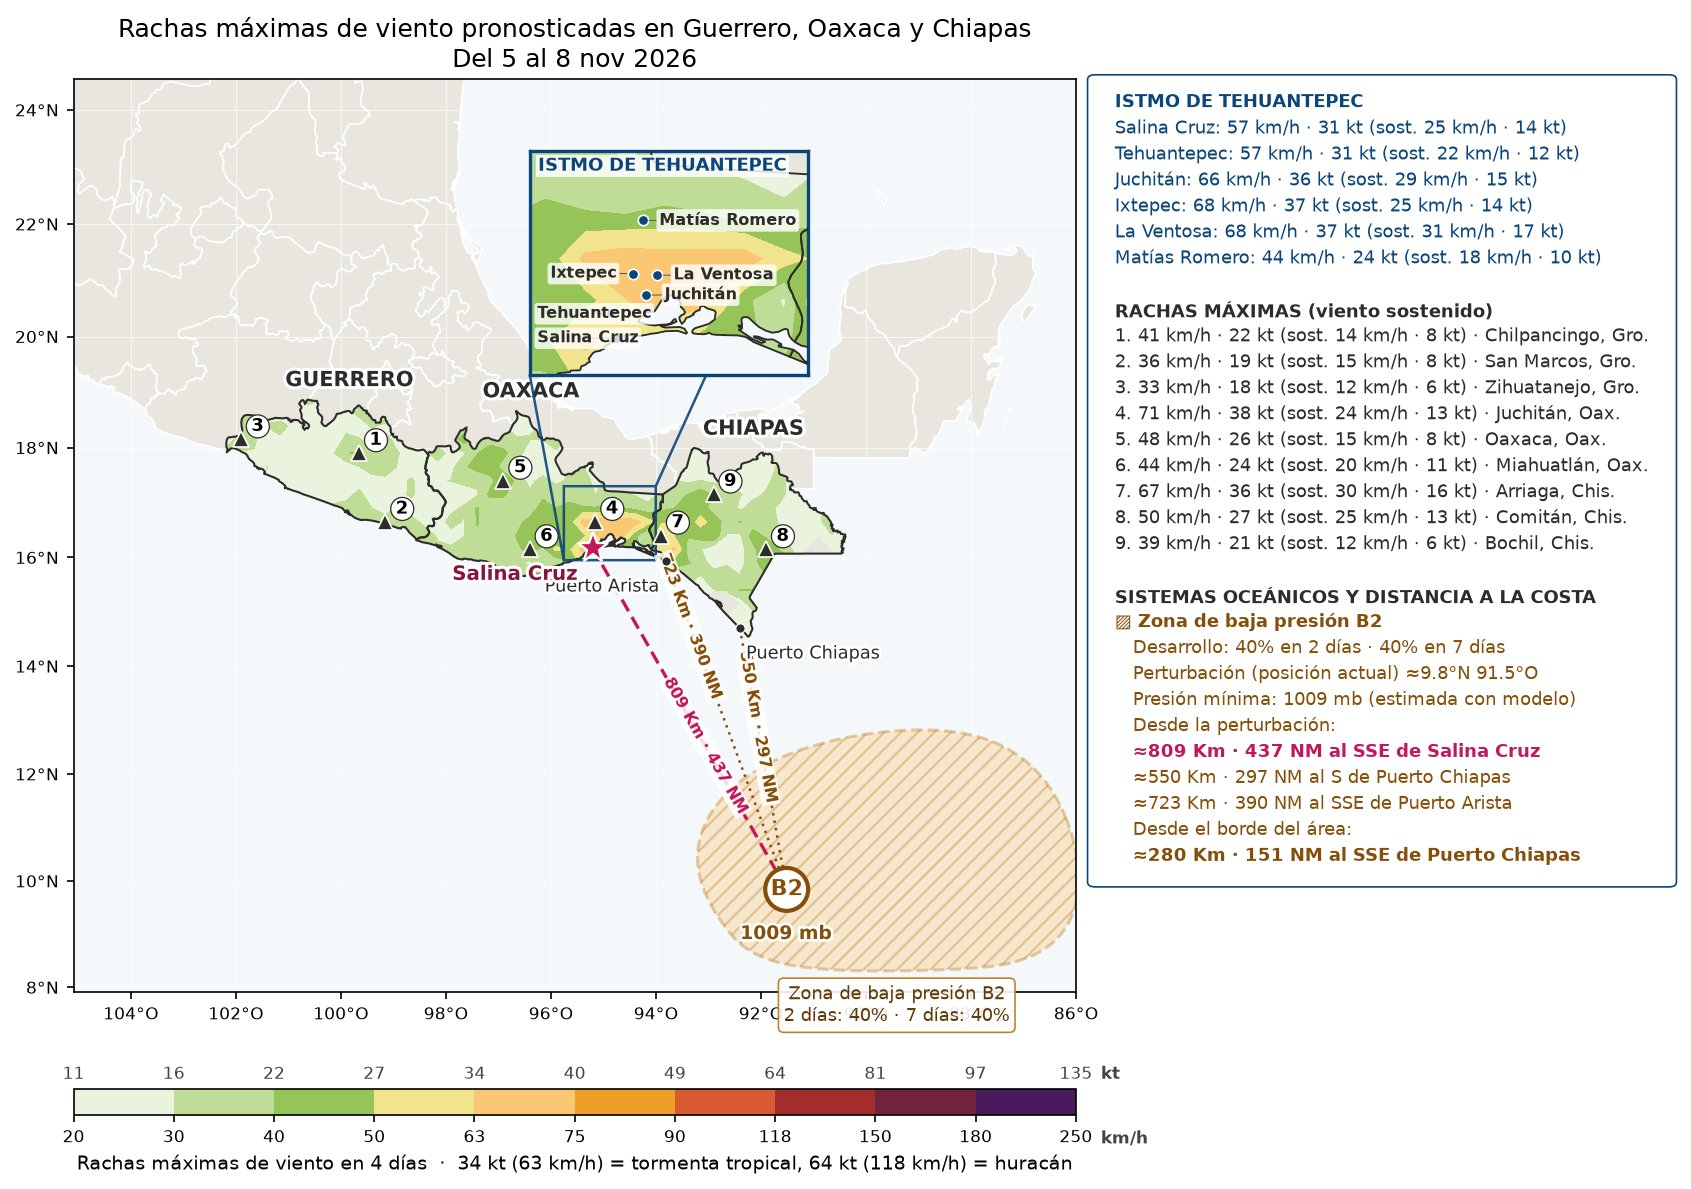
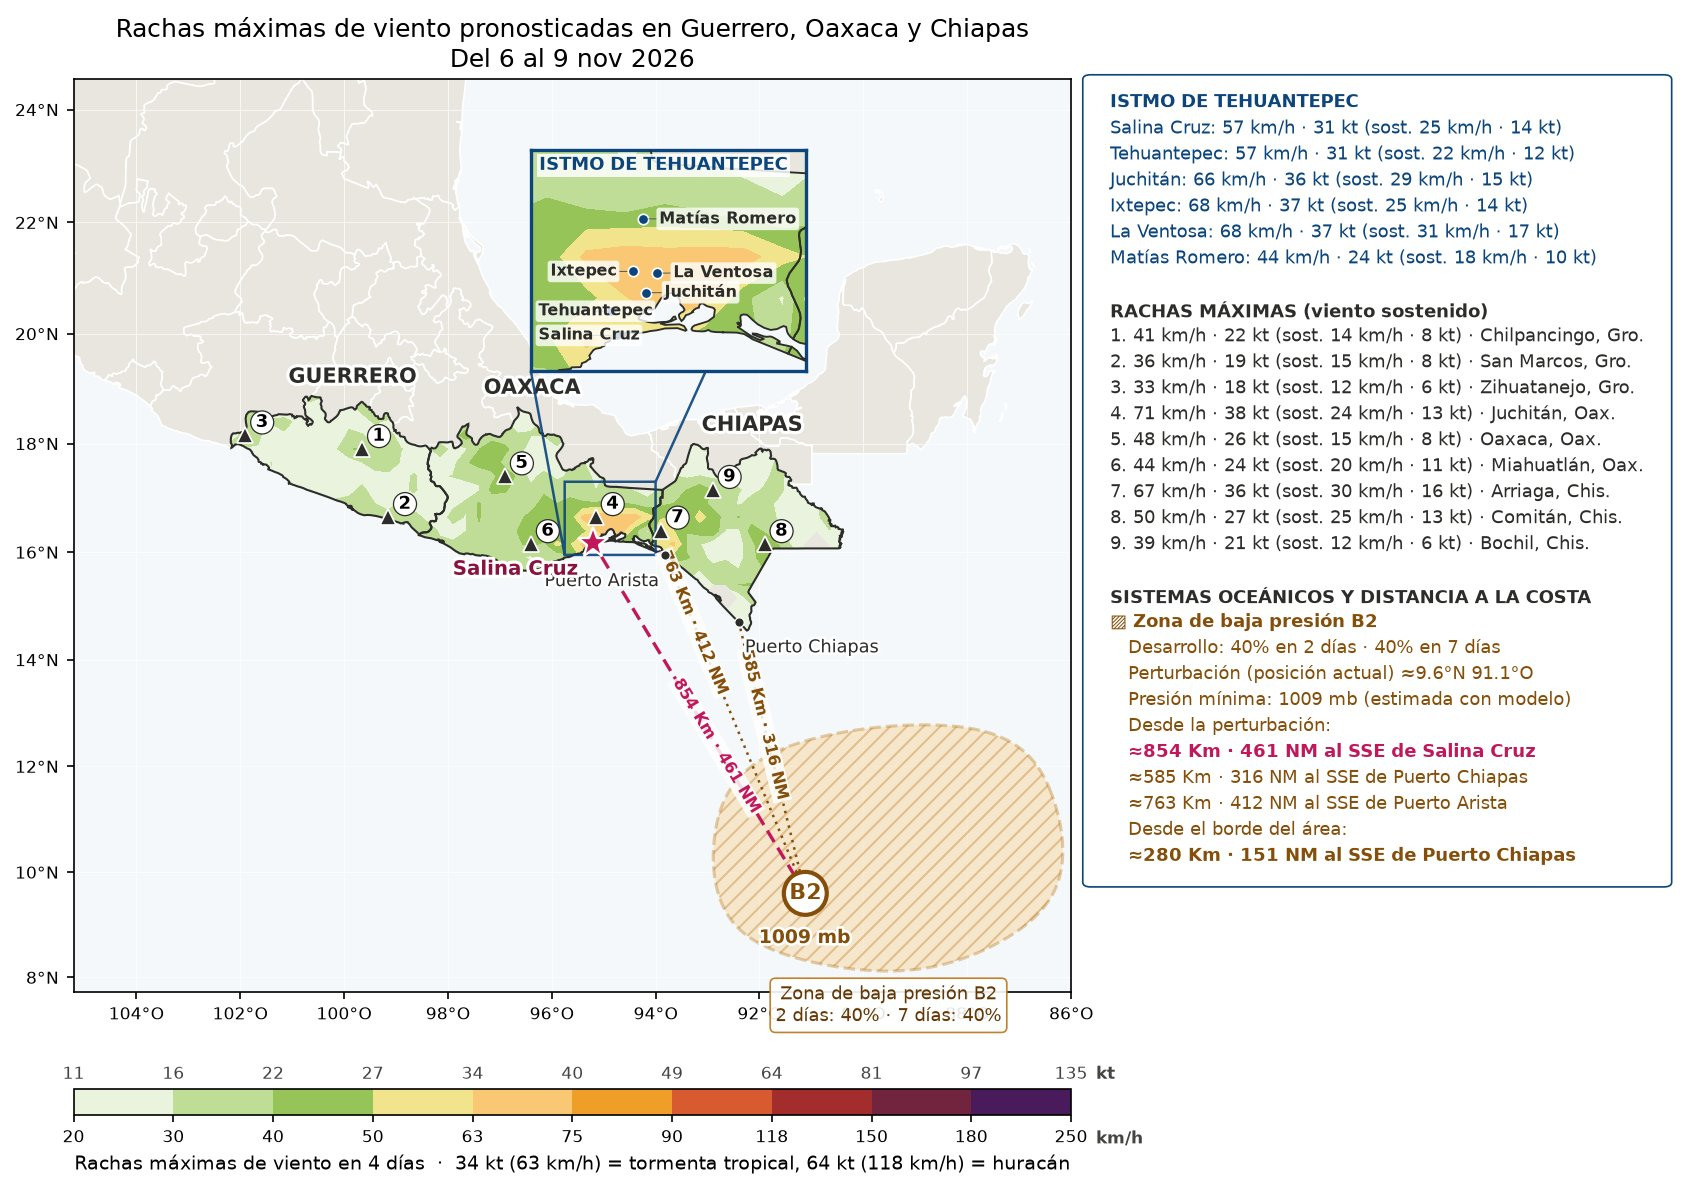
Monitor 06/11 00:07 (mapas nuevos)

diff --git a/index.html b/index.html
@@ -62,7 +62,7 @@ pre{overflow-x:auto;font-size:.75rem;background:var(--bg);padding:10px;border-ra
 <section class="t" id="sec_log"><details><summary>Registro (últimas líneas)</summary><pre id="log"></pre></details></section>
 </main>
 <div id="zoom"><img alt=""></div>
-<script id="datos" type="application/json">{"generado": "2026-11-05T23:37:03.414075", "ultima_revision": "2026-11-05T23:37:03.389101", "decision": "cambios menores en espera", "ultima_imagen": "2026-11-05T21:00:07.785836", "motivo_imagen": "cambios acumulados en 3 h: modelo", "pendientes": ["zonas"], "intervalo_h": 3, "resumen": {"ciclones": {}, "zonas": [{"lat": 9.6, "lon": -91.1, "n": "2", "p2": 40, "p7": 40}]}, "historial": [{"fecha": "2026-11-03T20:50:07.581951", "motivo": "cambios acumulados en 3 h: modelo"}, {"fecha": "2026-11-03T23:17:16.041431", "motivo": "CAMBIO SIGNIFICATIVO: zona de baja presión: 10/30% → 20/40% (2/7 días)"}, {"fecha": "2026-11-04T02:30:17.814496", "motivo": "cambios acumulados en 3 h: modelo"}, {"fecha": "2026-11-04T06:07:16.699309", "motivo": "cambios acumulados en 3 h: zonas"}, {"fecha": "2026-11-04T09:20:08.184753", "motivo": "cambios acumulados en 3 h: modelo"}, {"fecha": "2026-11-04T12:27:16.763868", "motivo": "cambios acumulados en 3 h: zonas"}, {"fecha": "2026-11-04T17:41:02.935370", "motivo": "CAMBIO SIGNIFICATIVO: zona de baja presión: 30/50% → 40/60% (2/7 días)"}, {"fecha": "2026-11-04T20:50:31.287696", "motivo": "cambios acumulados en 3 h: modelo"}, {"fecha": "2026-11-05T02:30:11.384999", "motivo": "cambios acumulados en 3 h: modelo"}, {"fecha": "2026-11-05T05:57:19.037606", "motivo": "cambios acumulados en 3 h: zonas"}, {"fecha": "2026-11-05T09:10:25.609675", "motivo": "cambios acumulados en 3 h: modelo"}, {"fecha": "2026-11-05T11:47:18.609423", "motivo": "CAMBIO SIGNIFICATIVO: zona de baja presión: 40/60% → 40/50% (2/7 días)"}, {"fecha": "2026-11-05T15:00:14.907001", "motivo": "cambios acumulados en 3 h: modelo"}, {"fecha": "2026-11-05T17:47:16.654961", "motivo": "CAMBIO SIGNIFICATIVO: zona de baja presión: 40/50% → 40/40% (2/7 días)"}, {"fecha": "2026-11-05T21:00:07.785836", "motivo": "cambios acumulados en 3 h: modelo"}], "imagenes": {"lluvia": {"src": "lluvia.jpg?v=202611052100", "fecha": "2026-11-05T21:00:01.240321"}, "viento": {"src": "viento.jpg?v=202611052100", "fecha": "2026-11-05T21:00:06.056127"}}, "log": [], "umbral_av": 50, "umbral_mal": 110}</script>
+<script id="datos" type="application/json">{"generado": "2026-11-06T00:07:18.568485", "ultima_revision": "2026-11-06T00:07:18.516460", "decision": "imágenes generadas", "ultima_imagen": "2026-11-06T00:07:18.516460", "motivo_imagen": "cambios acumulados en 3 h: zonas", "pendientes": [], "intervalo_h": 3, "resumen": {"ciclones": {}, "zonas": [{"lat": 9.6, "lon": -91.1, "n": "2", "p2": 40, "p7": 40}]}, "historial": [{"fecha": "2026-11-03T23:17:16.041431", "motivo": "CAMBIO SIGNIFICATIVO: zona de baja presión: 10/30% → 20/40% (2/7 días)"}, {"fecha": "2026-11-04T02:30:17.814496", "motivo": "cambios acumulados en 3 h: modelo"}, {"fecha": "2026-11-04T06:07:16.699309", "motivo": "cambios acumulados en 3 h: zonas"}, {"fecha": "2026-11-04T09:20:08.184753", "motivo": "cambios acumulados en 3 h: modelo"}, {"fecha": "2026-11-04T12:27:16.763868", "motivo": "cambios acumulados en 3 h: zonas"}, {"fecha": "2026-11-04T17:41:02.935370", "motivo": "CAMBIO SIGNIFICATIVO: zona de baja presión: 30/50% → 40/60% (2/7 días)"}, {"fecha": "2026-11-04T20:50:31.287696", "motivo": "cambios acumulados en 3 h: modelo"}, {"fecha": "2026-11-05T02:30:11.384999", "motivo": "cambios acumulados en 3 h: modelo"}, {"fecha": "2026-11-05T05:57:19.037606", "motivo": "cambios acumulados en 3 h: zonas"}, {"fecha": "2026-11-05T09:10:25.609675", "motivo": "cambios acumulados en 3 h: modelo"}, {"fecha": "2026-11-05T11:47:18.609423", "motivo": "CAMBIO SIGNIFICATIVO: zona de baja presión: 40/60% → 40/50% (2/7 días)"}, {"fecha": "2026-11-05T15:00:14.907001", "motivo": "cambios acumulados en 3 h: modelo"}, {"fecha": "2026-11-05T17:47:16.654961", "motivo": "CAMBIO SIGNIFICATIVO: zona de baja presión: 40/50% → 40/40% (2/7 días)"}, {"fecha": "2026-11-05T21:00:07.785836", "motivo": "cambios acumulados en 3 h: modelo"}, {"fecha": "2026-11-06T00:07:18.516460", "motivo": "cambios acumulados en 3 h: zonas"}], "imagenes": {"lluvia": {"src": "lluvia.jpg?v=202611060007", "fecha": "2026-11-06T00:07:11.624434"}, "viento": {"src": "viento.jpg?v=202611060007", "fecha": "2026-11-06T00:07:16.834483"}}, "log": [], "umbral_av": 50, "umbral_mal": 110}</script>
 <script>
 const D = JSON.parse(document.getElementById("datos").textContent);
 const $ = id => document.getElementById(id);
